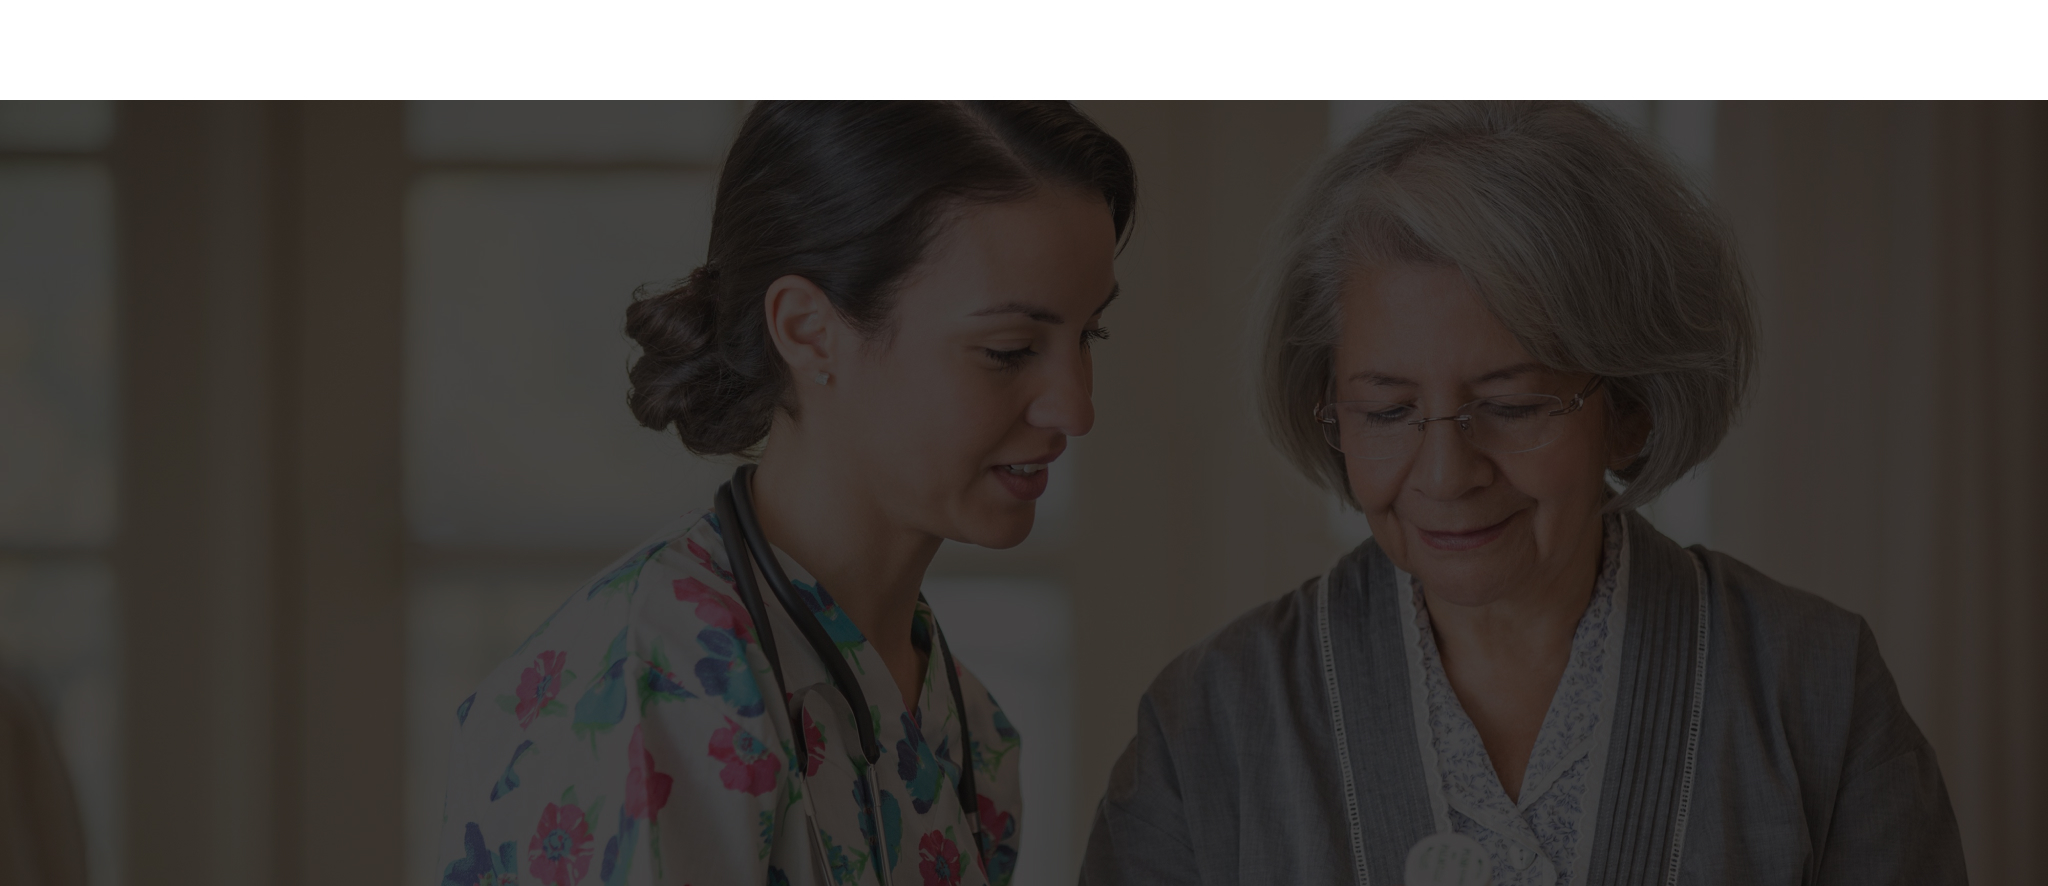
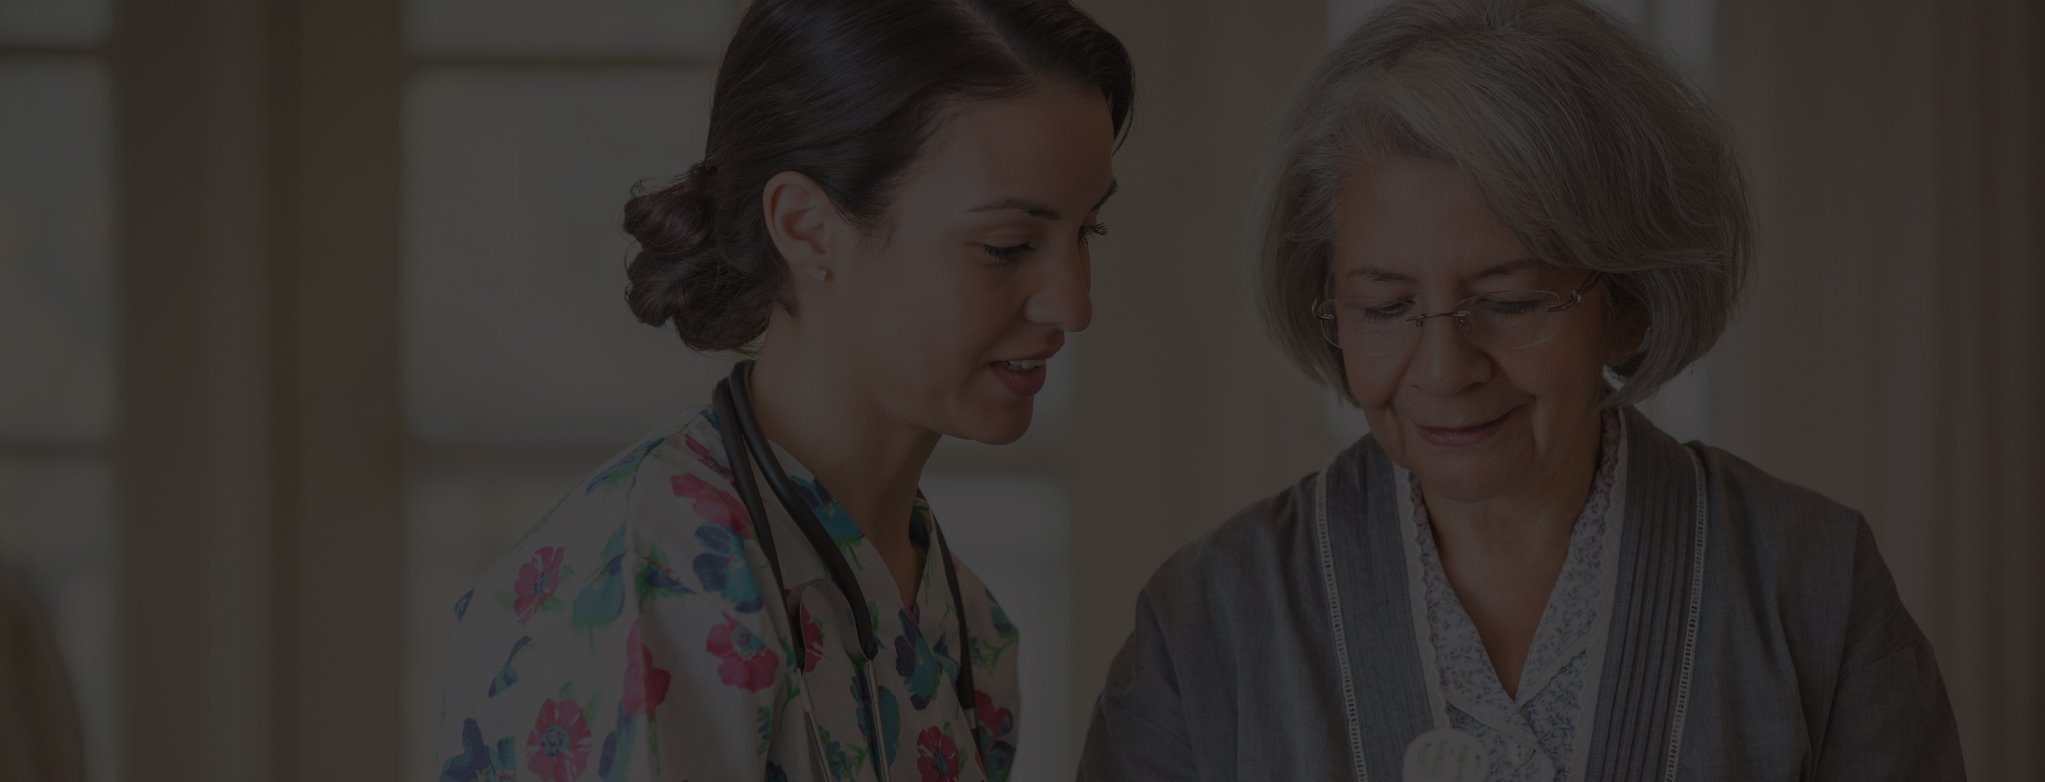
getting the hang of postcss

diff --git a/src/components/hero.js b/src/components/hero.js
@@ -1,7 +1,36 @@
 import React from 'react'
+import { Link } from 'gatsby'
+import heroBg from '../assets/images/hero.jpg'
 
-const Hero => (
-  <div classNames="container mx-auto">
-    Hello I am a hero
+const Hero = () => (
+  <div
+    className="hero m-0 w-screen h-screen min-h-hero max-h-70vh flex flex-col bg-cover justify-center items-center py-8"
+    style={{ backgroundImage: `url("${heroBg}")`, backgroundPosition: "top center" }}
+  >
+    <div className="container relative max-w-xl mx-auto flex flex-row justify-between items-center text-white">
+      <div className="container md:w-1/2">
+        <h1 className="my-4">Accessing social isolation in elders together</h1>
+        <p className="my-4">
+          WeMe project is a platform to attract social attention to the social
+          isolation and loneliness among elders.
+        </p>
+        <p className="my-4">
+          We aim to improve the elders
+          living quality and social satisfaction in Finland and China by proving a
+          modular system with partners' services, educational materials and an
+          event calendar for patients.
+        </p>
+        <div className="flex flex-row flex-wrap mt-8">
+          <Link to="/" className="bg-transparent hover:bg-teal text-white font-semibold hover:text-white py-3 px-5 mr-4 border border-white hover:border-transparent rounded no-underline">
+          Become a user
+          </Link>
+          <Link to="/" className="bg-transparent hover:bg-teal text-white font-semibold hover:text-white py-3 px-5 border border-white hover:border-transparent rounded no-underline">
+          Become a partner
+          </Link>
+        </div>
+      </div>
+    </div>
   </div>
 )
+
+export default Hero

diff --git a/src/assets/css/style.css b/src/assets/css/style.css
@@ -9,18 +9,18 @@
  *
  * @import "tailwindcss/preflight";
  */
- @tailwind preflight;
+@tailwind preflight;
 
- /**
+/**
   * This injects any component classes registered by plugins.
   *
   * If using `postcss-import`, use this import instead:
   *
   * @import "tailwindcss/components";
   */
- @tailwind components;
- 
- /**
+@tailwind components;
+
+/**
   * Here you would add any of your custom component classes; stuff that you'd
   * want loaded *before* the utilities so that the utilities could still
   * override them.
@@ -35,8 +35,8 @@
   * @import "components/buttons";
   * @import "components/forms";
   */
- 
- /**
+
+/**
   * This injects all of Tailwind's utility classes, generated based on your
   * config file.
   *
@@ -44,9 +44,9 @@
   *
   * @import "tailwindcss/utilities";
   */
- @tailwind utilities;
- 
- /**
+@tailwind utilities;
+
+/**
   * Here you would add any custom utilities you need that don't come out of the
   * box with Tailwind.
   *
@@ -60,3 +60,36 @@
   * @import "utilities/background-patterns";
   * @import "utilities/skew-transforms";
   */
+
+.header {
+  height: 50px;
+}
+
+.header .logo {
+  height: 35px;
+  width: auto;
+}
+
+img {
+  max-height: 100%;
+  max-width: 100%;
+}
+
+* {
+  box-sizing: border-box;
+}
+
+button, a {
+  transition: .1s background ease-in-out, .1s border-color ease-in-out, .1s color ease-in-out;
+}
+
+p {
+  line-height: 1.5em;
+}
+
+.hero h1 {
+  font-weight: 400;
+  font-size: 28px;
+  line-height: 2.5rem;
+  text-transform: uppercase;
+}

diff --git a/src/components/header.js b/src/components/header.js
@@ -2,20 +2,17 @@ import { Link } from 'gatsby'
 import PropTypes from 'prop-types'
 import React from 'react'
 
+import logo from '../assets/images/logo.png'
+
 const Header = ({ siteTitle }) => (
-  <nav className="bg-white">
-    <div className="flex flex-wrap items-center justify-between max-w-xl mx-auto p-4 md:p-8">
-      <Link to="/" className="flex items-center no-underline text-black">
-        <svg
-          className="fill-current h-8 mr-2 w-8"
-          width="54"
-          height="54"
-          viewBox="0 0 54 54"
-          xmlns="http://www.w3.org/2000/svg"
-        >
-          <path d="M13.5 22.1c1.8-7.2 6.3-10.8 13.5-10.8 10.8 0 12.15 8.1 17.55 9.45 3.6.9 6.75-.45 9.45-4.05-1.8 7.2-6.3 10.8-13.5 10.8-10.8 0-12.15-8.1-17.55-9.45-3.6-.9-6.75.45-9.45 4.05zM0 38.3c1.8-7.2 6.3-10.8 13.5-10.8 10.8 0 12.15 8.1 17.55 9.45 3.6.9 6.75-.45 9.45-4.05-1.8 7.2-6.3 10.8-13.5 10.8-10.8 0-12.15-8.1-17.55-9.45-3.6-.9-6.75.45-9.45 4.05z" />
-        </svg>
-        <span className="font-bold text-xl tracking-tight">{siteTitle}</span>
+  <nav className="bg-white header shadow-md relative w-full">
+    <div className="flex flex-wrap items-center justify-between w-full max-w-xl max-h-full relative p-2 mx-auto">
+      <Link to="/" className="logo">
+        <img
+          src={logo}
+          className="h-full relative"
+          alt="WeMe logo"
+        />
       </Link>
 
       <button className="block md:hidden border border-white flex items-center px-3 py-2 rounded text-black">

diff --git a/tailwind.config.js b/tailwind.config.js
@@ -38,17 +38,9 @@ let defaultConfig = require('tailwindcss/defaultConfig')()
 
 let colors = {
   transparent: 'transparent',
-
   black: '#22292f',
-  'grey-darkest': '#3d4852',
-  'grey-darker': '#606f7b',
-  'grey-dark': '#8795a1',
-  grey: '#b8c2cc',
-  'grey-light': '#dae1e7',
-  'grey-lighter': '#f1f5f8',
-  'grey-lightest': '#f8fafc',
+  grey: '#f2f2f2',
   white: '#ffffff',
-
   'red-darkest': '#3b0d0c',
   'red-darker': '#621b18',
   'red-dark': '#cc1f1a',
@@ -84,7 +76,7 @@ let colors = {
   'teal-darkest': '#0d3331',
   'teal-darker': '#20504f',
   'teal-dark': '#38a89d',
-  teal: '#4dc0b5',
+  teal: '#19A4B9',
   'teal-light': '#64d5ca',
   'teal-lighter': '#a0f0ed',
   'teal-lightest': '#e8fffe',
@@ -564,6 +556,7 @@ module.exports = {
 
   minHeight: {
     '0': '0',
+    hero: '400px',
     full: '100%',
     screen: '100vh',
   },
@@ -613,6 +606,9 @@ module.exports = {
   */
 
   maxHeight: {
+    '50vh': '50vh',
+    '60vh': '60vh',
+    '70vh': '70vh',
     full: '100%',
     screen: '100vh',
   },
@@ -739,7 +735,7 @@ module.exports = {
 
   shadows: {
     default: '0 2px 4px 0 rgba(0,0,0,0.10)',
-    md: '0 4px 8px 0 rgba(0,0,0,0.12), 0 2px 4px 0 rgba(0,0,0,0.08)',
+    md: '0 4px 8px 0 rgba(0,0,0,0.05), 0 2px 4px 0 rgba(0,0,0,0.02)',
     lg: '0 15px 30px 0 rgba(0,0,0,0.11), 0 5px 15px 0 rgba(0,0,0,0.08)',
     inner: 'inset 0 2px 4px 0 rgba(0,0,0,0.06)',
     outline: '0 0 0 3px rgba(52,144,220,0.5)',

diff --git a/src/components/layout.js b/src/components/layout.js
@@ -3,6 +3,7 @@ import PropTypes from 'prop-types'
 import { StaticQuery, graphql } from 'gatsby'
 
 import Header from './header'
+
 import '../assets/css/style.css'
 
 const Layout = ({ children }) => (
@@ -17,24 +18,15 @@ const Layout = ({ children }) => (
       }
     `}
     render={data => (
-      <>
+      <React.Fragment>
         <Header siteTitle={data.site.siteMetadata.title} />
-        <div
-          style={{
-            margin: `0 auto`,
-            maxWidth: 960,
-            padding: `0px 1.0875rem 1.45rem`,
-            paddingTop: 0,
-          }}
-        >
-          {children}
-          <footer>
-            © {new Date().getFullYear()}, Built with
-            {` `}
-            <a href="https://www.gatsbyjs.org">Gatsby</a>
-          </footer>
+        <div className="mx-0 p-0 bg-grey">
+        {children}
         </div>
-      </>
+        <footer className="p-0 w-screen bg-white shadow-md h-48">
+          <div className="w-screen max-w-xl mx-auto">© {new Date().getFullYear()}WeMe Project</div>
+        </footer>
+      </React.Fragment>
     )}
   />
 )

diff --git a/src/components/image.js b/src/components/image.js
@@ -13,20 +13,23 @@ import Img from 'gatsby-image'
  * - `StaticQuery`: https://gatsby.app/staticquery
  */
 
-const Image = () => (
-  <StaticQuery
-    query={graphql`
-      query {
-        placeholderImage: file(relativePath: { eq: "gatsby-astronaut.png" }) {
-          childImageSharp {
-            fluid(maxWidth: 300) {
-              ...GatsbyImageSharpFluid
-            }
-          }
+const Image = src => {
+  const query = `query {
+    placeholderImage: file(relativePath: { eq: { ${src}} }) {
+      childImageSharp {
+        fluid(maxWidth: 300) {
+          ...GatsbyImageSharpFluid
         }
       }
-    `}
-    render={data => <Img fluid={data.placeholderImage.childImageSharp.fluid} />}
-  />
-)
+    }
+  }`
+  return (
+    <StaticQuery
+      query={graphql(query)}
+      render={data => (
+        <Img fluid={data.placeholderImage.childImageSharp.fluid} />
+      )}
+    />
+  )
+}
 export default Image

diff --git a/src/pages/index.js b/src/pages/index.js
@@ -2,19 +2,19 @@ import React from 'react'
 import { Link } from 'gatsby'
 
 import Layout from '../components/layout'
-import Image from '../components/image'
 import SEO from '../components/seo'
+import Hero from '../components/hero'
 
 const IndexPage = () => (
   <Layout>
     <SEO title="Home" keywords={[`gatsby`, `application`, `react`]} />
-    <h1>Hi people</h1>
-    <p>Welcome to your new Gatsby site.</p>
-    <p>Now go build something great.</p>
-    <div style={{ maxWidth: `300px`, marginBottom: `1.45rem` }}>
-      <Image />
+    <Hero />
+    <div className="container mx-auto w-screen max-w-xl py-8">
+      <h1>Hi people</h1>
+      <p>Welcome to your new Gatsby site.</p>
+      <p>Now go build something great.</p>
+      <Link to="/page-2/">Go to page 2</Link>
     </div>
-    <Link to="/page-2/">Go to page 2</Link>
   </Layout>
 )
 

diff --git a/postcss.config.js b/postcss.config.js
@@ -1,5 +1,8 @@
 const tailwindcss = require('tailwindcss')
 
 module.exports = {
-  plugins: [tailwindcss('./tailwind.config.js'), require('autoprefixer')],
+  plugins: [
+    tailwindcss('./tailwind.config.js'),
+    require('autoprefixer'),
+  ],
 }
